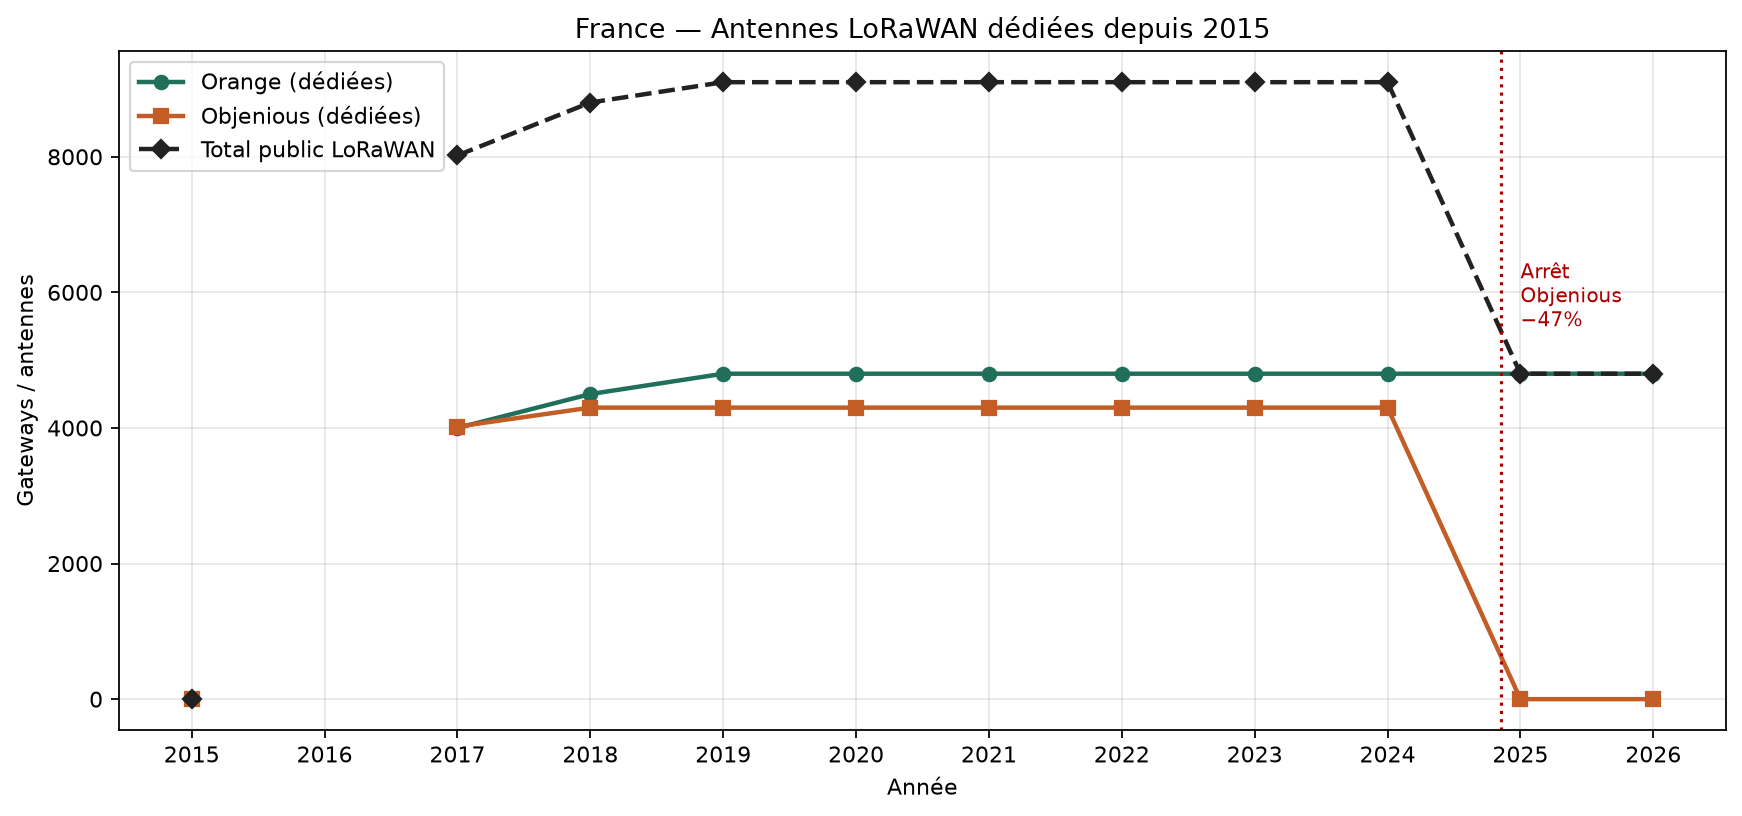
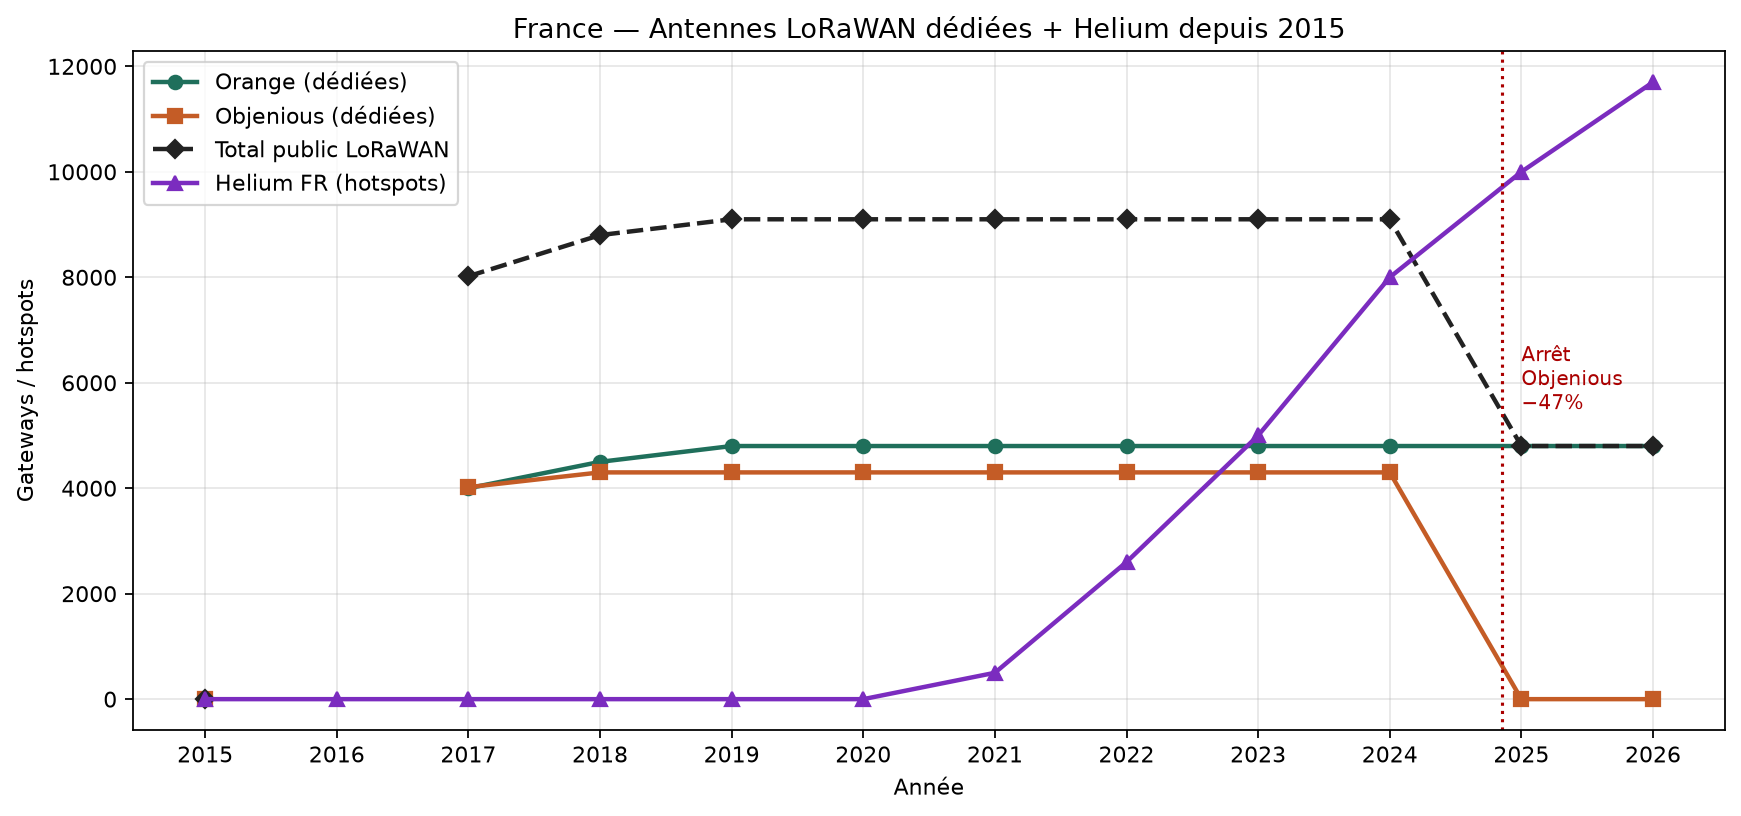
Intègre la croissance Helium dans l'analyse antennes depuis 2015
Ajoute séries FR/monde, graphiques dédiés, tendances post-Solana
et colonnes Helium dans le tableau comparatif LoRaWAN / NB-IoT.

diff --git a/src/analysis/antennas_since_2015.py b/src/analysis/antennas_since_2015.py
@@ -31,22 +31,75 @@ def plot_lora_antennas(data: dict[str, Any], out: Path) -> Path:
     orange = [r.get("orange") for r in series]
     obj = [r.get("objenious") for r in series]
     total = [r.get("total_public") for r in series]
+    he = {r["year"]: r.get("hotspots") for r in data.get("helium_hotspots", {}).get("france", {}).get("series", [])}
+    helium = [he.get(y) for y in years]
 
     fig, ax = plt.subplots(figsize=(11, 5.2))
     ax.plot(years, orange, "o-", color="#1f6f5b", lw=2, label="Orange (dédiées)")
     ax.plot(years, obj, "s-", color="#c45c26", lw=2, label="Objenious (dédiées)")
     ax.plot(years, total, "D--", color="#222", lw=2, label="Total public LoRaWAN")
+    ax.plot(years, helium, "^-", color="#7b2cbf", lw=2, label="Helium FR (hotspots)")
     ax.axvline(2024.85, color="#a00", ls=":", lw=1.4)
     ax.text(2025.0, 5500, "Arrêt\nObjenious\n−47%", color="#a00", fontsize=9)
-    ax.set_title("France — Antennes LoRaWAN dédiées depuis 2015")
+    ax.set_title("France — Antennes LoRaWAN dédiées + Helium depuis 2015")
     ax.set_xlabel("Année")
-    ax.set_ylabel("Gateways / antennes")
+    ax.set_ylabel("Gateways / hotspots")
     ax.set_xticks(years)
     ax.grid(True, alpha=0.3)
     ax.legend(loc="upper left")
     path = out / "antennes_lora_depuis_2015.png"
     _save(fig, path)
     return path
+
+
+def plot_helium_growth(data: dict[str, Any], out: Path) -> tuple[Path, Path]:
+    fr = data["helium_hotspots"]["france"]["series"]
+    wo = data["helium_hotspots"]["world"]["series"]
+
+    # France
+    fig1, ax1 = plt.subplots(figsize=(11, 5.0))
+    yf = [r["year"] for r in fr]
+    vf = [r.get("hotspots") or 0 for r in fr]
+    ax1.plot(yf, vf, "o-", color="#7b2cbf", lw=2.5, markersize=7)
+    ax1.fill_between(yf, vf, color="#7b2cbf", alpha=0.15)
+    ax1.axvline(2022, color="#333", ls=":", lw=1)
+    ax1.text(2022.1, max(vf) * 0.35, "JDN :\n~2 600 FR", fontsize=8)
+    ax1.set_title("France — Croissance Helium IoT (hotspots géolocalisés / estimés)")
+    ax1.set_xlabel("Année")
+    ax1.set_ylabel("Hotspots Helium FR")
+    ax1.set_xticks(yf)
+    ax1.grid(True, alpha=0.3)
+    path_fr = out / "helium_croissance_france.png"
+    _save(fig1, path_fr)
+
+    # World onboarded vs active
+    fig2, ax2 = plt.subplots(figsize=(11, 5.0))
+    yw = [r["year"] for r in wo]
+    onboarded = [r.get("onboarded") or 0 for r in wo]
+    active = [r.get("active_approx") for r in wo]
+    ax2.plot(yw, onboarded, "o-", color="#7b2cbf", lw=2.5, label="Onboarded (stock)")
+    ax2.plot(
+        [y for y, a in zip(yw, active) if a is not None],
+        [a for a in active if a is not None],
+        "s--",
+        color="#e67e22",
+        lw=2.5,
+        label="Actifs (approx.)",
+    )
+    ax2.set_yscale("log")
+    ax2.axvline(2021.5, color="#333", ls=":", lw=1)
+    ax2.text(2019.2, 200000, "Boom\n2021–2022", fontsize=8)
+    ax2.axvline(2023.3, color="#a00", ls=":", lw=1)
+    ax2.text(2023.4, 80000, "Solana\nmigration\n→ actifs ↓", fontsize=8, color="#a00")
+    ax2.set_title("Monde — Croissance Helium IoT (onboarded vs actifs)")
+    ax2.set_xlabel("Année")
+    ax2.set_ylabel("Hotspots (échelle log)")
+    ax2.set_xticks(yw)
+    ax2.grid(True, alpha=0.3, which="both")
+    ax2.legend(loc="upper left")
+    path_wo = out / "helium_croissance_monde.png"
+    _save(fig2, path_wo)
+    return path_fr, path_wo
 
 
 def plot_nbiot_capacity(data: dict[str, Any], out: Path) -> Path:
@@ -91,6 +144,7 @@ def plot_nbiot_capacity(data: dict[str, Any], out: Path) -> Path:
 
 def plot_dual_comparison(data: dict[str, Any], out: Path) -> Path:
     lora = {r["year"]: r.get("total_public") for r in data["lora_antennas_france"]["series"]}
+    he = {r["year"]: r.get("hotspots") for r in data["helium_hotspots"]["france"]["series"]}
     nbiot = {}
     for r in data["nbiot_radio_sites_france"]["series"]:
         y = r["year"]
@@ -98,35 +152,23 @@ def plot_dual_comparison(data: dict[str, Any], out: Path) -> Path:
         if nbiot[y] is None:
             nbiot[y] = r.get("active_nbiot_capacity") or 0
 
-    years = sorted(set(lora) | set(nbiot))
+    years = sorted(set(lora) | set(nbiot) | set(he))
     l_vals = [lora.get(y) for y in years]
+    h_vals = [he.get(y) or 0 for y in years]
     n_vals = [nbiot.get(y) or 0 for y in years]
 
     fig, ax1 = plt.subplots(figsize=(11, 5.4))
     ax2 = ax1.twinx()
-    (l1,) = ax1.plot(years, l_vals, "o-", color="#1f6f5b", lw=2.5, label="LoRaWAN antennes dédiées (axe G)")
+    (l1,) = ax1.plot(years, l_vals, "o-", color="#1f6f5b", lw=2.5, label="LoRaWAN public dédié (axe G)")
+    (l3,) = ax1.plot(years, h_vals, "^-", color="#7b2cbf", lw=2.5, label="Helium FR (axe G)")
     (l2,) = ax2.plot(years, n_vals, "s-", color="#0b3d91", lw=2.5, label="NB-IoT proxy sites 4G (axe D)")
-    ax1.set_ylabel("Antennes LoRaWAN dédiées", color="#1f6f5b")
+    ax1.set_ylabel("Antennes LoRaWAN / hotspots Helium", color="#1f6f5b")
     ax2.set_ylabel("Sites 4G proxy NB-IoT", color="#0b3d91")
     ax1.set_xlabel("Année")
-    ax1.set_title("France 2015–2026 — Antennes LoRaWAN vs capacité NB-IoT (échelles distinctes)")
+    ax1.set_title("France 2015–2026 — LoRaWAN public + Helium vs capacité NB-IoT")
     ax1.set_xticks(years)
     ax1.grid(True, alpha=0.25)
-    ax1.legend(handles=[l1, l2], loc="upper left")
-    ax1.annotate(
-        "LoRa en avance\npuis plateau / chute",
-        xy=(2019, 9100),
-        xytext=(2016.2, 7000),
-        fontsize=8,
-        arrowprops=dict(arrowstyle="->", color="#1f6f5b"),
-    )
-    ax2.annotate(
-        "NB-IoT démarre\npuis densifie",
-        xy=(2022, 78000),
-        xytext=(2020.2, 35000),
-        fontsize=8,
-        arrowprops=dict(arrowstyle="->", color="#0b3d91"),
-    )
+    ax1.legend(handles=[l1, l3, l2], loc="upper left")
     path = out / "comparaison_antennes_lora_vs_nbiot_2015.png"
     _save(fig, path)
     return path
@@ -134,7 +176,7 @@ def plot_dual_comparison(data: dict[str, Any], out: Path) -> Path:
 
 def plot_phases(out: Path) -> Path:
     """Schéma des phases de déploiement."""
-    fig, ax = plt.subplots(figsize=(11, 3.8))
+    fig, ax = plt.subplots(figsize=(11, 4.6))
     phases = [
         (2015, 2016.8, "LoRa\nlancement", "#1f6f5b"),
         (2016.8, 2019.2, "LoRa\ncroissance", "#2a9d7a"),
@@ -142,8 +184,17 @@ def plot_phases(out: Path) -> Path:
         (2024.7, 2026.5, "LoRa\nchute −47%", "#a04040"),
     ]
     for x0, x1, label, color in phases:
-        ax.barh(1, x1 - x0, left=x0, height=0.55, color=color, alpha=0.9)
-        ax.text((x0 + x1) / 2, 1, label, ha="center", va="center", color="white", fontsize=8, fontweight="bold")
+        ax.barh(2, x1 - x0, left=x0, height=0.5, color=color, alpha=0.9)
+        ax.text((x0 + x1) / 2, 2, label, ha="center", va="center", color="white", fontsize=7.5, fontweight="bold")
+
+    phases_he = [
+        (2015, 2020.5, "Helium\nabsent FR", "#b8a0d0"),
+        (2020.5, 2022.8, "Helium\nboom FR", "#7b2cbf"),
+        (2022.8, 2026.5, "Helium\nstock ↑ / actifs fragiles", "#5a189a"),
+    ]
+    for x0, x1, label, color in phases_he:
+        ax.barh(1, x1 - x0, left=x0, height=0.5, color=color, alpha=0.9)
+        ax.text((x0 + x1) / 2, 1, label, ha="center", va="center", color="white", fontsize=7.5, fontweight="bold")
 
     phases_nb = [
         (2015, 2019, "NB-IoT\n0 commercial FR", "#8899aa"),
@@ -151,14 +202,14 @@ def plot_phases(out: Path) -> Path:
         (2022, 2026.5, "NB-IoT\nnational + densif. ↑", "#0b3d91"),
     ]
     for x0, x1, label, color in phases_nb:
-        ax.barh(0, x1 - x0, left=x0, height=0.55, color=color, alpha=0.9)
-        ax.text((x0 + x1) / 2, 0, label, ha="center", va="center", color="white", fontsize=8, fontweight="bold")
+        ax.barh(0, x1 - x0, left=x0, height=0.5, color=color, alpha=0.9)
+        ax.text((x0 + x1) / 2, 0, label, ha="center", va="center", color="white", fontsize=7.5, fontweight="bold")
 
-    ax.set_yticks([0, 1])
-    ax.set_yticklabels(["NB-IoT\n(proxy 4G)", "LoRaWAN\n(antennes dédiées)"])
+    ax.set_yticks([0, 1, 2])
+    ax.set_yticklabels(["NB-IoT\n(proxy 4G)", "Helium\n(hotspots)", "LoRaWAN\n(antennes dédiées)"])
     ax.set_xlim(2014.8, 2026.7)
     ax.set_xlabel("Année")
-    ax.set_title("Phases de déploiement antennes / capacité radio — France 2015–2026")
+    ax.set_title("Phases de déploiement — LoRaWAN / Helium / NB-IoT — France 2015–2026")
     ax.axvline(2019, color="#333", ls=":", lw=0.8)
     ax.axvline(2022, color="#333", ls=":", lw=0.8)
     ax.axvline(2024.9, color="#a00", ls=":", lw=0.8)
@@ -170,9 +221,11 @@ def plot_phases(out: Path) -> Path:
 def build_table(data: dict[str, Any]) -> list[dict[str, Any]]:
     lora = {r["year"]: r for r in data["lora_antennas_france"]["series"]}
     nbiot = {r["year"]: r for r in data["nbiot_radio_sites_france"]["series"]}
+    helium = {r["year"]: r for r in data["helium_hotspots"]["france"]["series"]}
+    he_world = {r["year"]: r for r in data["helium_hotspots"]["world"]["series"]}
     rows = []
     for y in range(2015, 2027):
-        lr, nr = lora.get(y, {}), nbiot.get(y, {})
+        lr, nr, hr, hw = lora.get(y, {}), nbiot.get(y, {}), helium.get(y, {}), he_world.get(y, {})
         nb_cap = nr.get("active_nbiot_capacity_with_orange")
         if nb_cap is None:
             nb_cap = nr.get("active_nbiot_capacity")
@@ -182,6 +235,9 @@ def build_table(data: dict[str, Any]) -> list[dict[str, Any]]:
                 "lora_orange": lr.get("orange"),
                 "lora_objenious": lr.get("objenious"),
                 "lora_total_public": lr.get("total_public"),
+                "helium_fr": hr.get("hotspots"),
+                "helium_world_onboarded": hw.get("onboarded"),
+                "helium_world_active": hw.get("active_approx"),
                 "nbiot_proxy_sites": nb_cap,
                 "nbiot_sfr": nr.get("sfr"),
                 "nbiot_bouygues": nr.get("bouygues"),
@@ -197,9 +253,12 @@ def run(root: Path) -> dict[str, Any]:
     art_dir = Path("/opt/cursor/artifacts/figures")
     art_dir.mkdir(parents=True, exist_ok=True)
 
+    he_fr, he_wo = plot_helium_growth(data, fig_dir)
     figs = [
         plot_phases(fig_dir),
         plot_lora_antennas(data, fig_dir),
+        he_fr,
+        he_wo,
         plot_nbiot_capacity(data, fig_dir),
         plot_dual_comparison(data, fig_dir),
     ]
@@ -219,16 +278,15 @@ def run(root: Path) -> dict[str, Any]:
         json.dumps(out, indent=2, ensure_ascii=False), encoding="utf-8"
     )
 
-    # Markdown summary
     lines = [
-        "# Antennes LoRaWAN vs capacité NB-IoT — France depuis 2015",
+        "# Antennes LoRaWAN / Helium vs capacité NB-IoT — France depuis 2015",
         "",
         data["meta"]["method_note"].strip(),
         "",
         "## Tableau annuel",
         "",
-        "| Année | Orange LoRa | Objenious LoRa | Total LoRa public | Proxy NB-IoT (sites 4G) |",
-        "|---:|---:|---:|---:|---:|",
+        "| Année | Orange LoRa | Objenious | Total LoRa public | Helium FR | Helium monde onboarded | Proxy NB-IoT |",
+        "|---:|---:|---:|---:|---:|---:|---:|",
     ]
     for r in table:
         def fmt(v):
@@ -236,16 +294,22 @@ def run(root: Path) -> dict[str, Any]:
 
         lines.append(
             f"| {r['year']} | {fmt(r['lora_orange'])} | {fmt(r['lora_objenious'])} | "
-            f"{fmt(r['lora_total_public'])} | {fmt(r['nbiot_proxy_sites'])} |"
+            f"{fmt(r['lora_total_public'])} | {fmt(r['helium_fr'])} | "
+            f"{fmt(r['helium_world_onboarded'])} | {fmt(r['nbiot_proxy_sites'])} |"
         )
+    he_tr = data["trends_summary"]["helium"]
     lines += [
         "",
         "## Tendances",
         "",
-        "### LoRaWAN (antennes dédiées)",
+        "### LoRaWAN opéré (antennes dédiées)",
         f"- 2015–2019 : {data['trends_summary']['lora']['phase_2015_2019']}",
         f"- 2019–2024 : {data['trends_summary']['lora']['phase_2019_2024']}",
         f"- 2025–2026 : {data['trends_summary']['lora']['phase_2025_2026']}",
+        "",
+        "### Helium (LoRaWAN communautaire / DePIN)",
+        f"- 2019–2022 : {he_tr['phase_2019_2022']}",
+        f"- 2023–2026 : {he_tr['phase_2023_2026']}",
         "",
         "### NB-IoT (proxy sites 4G)",
         f"- 2015–2018 : {data['trends_summary']['nbiot']['phase_2015_2018']}",

diff --git a/reports/analyse_antennes_depuis_2015.md b/reports/analyse_antennes_depuis_2015.md
@@ -1,4 +1,4 @@
-# Antennes LoRaWAN vs capacité NB-IoT — France depuis 2015
+# Antennes LoRaWAN / Helium vs capacité NB-IoT — France depuis 2015
 
 Comparer des gateways LoRaWAN à des sites 4G n'est pas un comptage homogène :
 un site 4G NB-IoT mutualise voix/data/IoT ; une antenne LoRa est dédiée LPWAN.
@@ -6,27 +6,31 @@ L'analyse porte sur la DYNAMIQUE (croissance/décroissance) et les ordres de gra
 
 ## Tableau annuel
 
-| Année | Orange LoRa | Objenious LoRa | Total LoRa public | Proxy NB-IoT (sites 4G) |
-|---:|---:|---:|---:|---:|
-| 2015 | 0 | 0 | 0 | 0 |
-| 2016 | — | — | — | 0 |
-| 2017 | 4 000 | 4 020 | 8 020 | 0 |
-| 2018 | 4 500 | 4 300 | 8 800 | 0 |
-| 2019 | 4 800 | 4 300 | 9 100 | 17 700 |
-| 2020 | 4 800 | 4 300 | 9 100 | 20 000 |
-| 2021 | 4 800 | 4 300 | 9 100 | 27 000 |
-| 2022 | 4 800 | 4 300 | 9 100 | 78 193 |
-| 2023 | 4 800 | 4 300 | 9 100 | 78 997 |
-| 2024 | 4 800 | 4 300 | 9 100 | 84 521 |
-| 2025 | 4 800 | 0 | 4 800 | 89 474 |
-| 2026 | 4 800 | 0 | 4 800 | 93 516 |
+| Année | Orange LoRa | Objenious | Total LoRa public | Helium FR | Helium monde onboarded | Proxy NB-IoT |
+|---:|---:|---:|---:|---:|---:|---:|
+| 2015 | 0 | 0 | 0 | 0 | — | 0 |
+| 2016 | — | — | — | 0 | — | 0 |
+| 2017 | 4 000 | 4 020 | 8 020 | 0 | — | 0 |
+| 2018 | 4 500 | 4 300 | 8 800 | 0 | — | 0 |
+| 2019 | 4 800 | 4 300 | 9 100 | 0 | 1 000 | 17 700 |
+| 2020 | 4 800 | 4 300 | 9 100 | 0 | 10 000 | 20 000 |
+| 2021 | 4 800 | 4 300 | 9 100 | 500 | 250 000 | 27 000 |
+| 2022 | 4 800 | 4 300 | 9 100 | 2 600 | 975 000 | 78 193 |
+| 2023 | 4 800 | 4 300 | 9 100 | 5 000 | 1 000 000 | 78 997 |
+| 2024 | 4 800 | 4 300 | 9 100 | 8 000 | 1 030 000 | 84 521 |
+| 2025 | 4 800 | 0 | 4 800 | 10 000 | 1 035 000 | 89 474 |
+| 2026 | 4 800 | 0 | 4 800 | 11 700 | 1 035 532 | 93 516 |
 
 ## Tendances
 
-### LoRaWAN (antennes dédiées)
+### LoRaWAN opéré (antennes dédiées)
 - 2015–2019 : CROISSANCE forte (0 → ~9100 antennes publiques)
 - 2019–2024 : PLATEAU duopole Orange+Objenious (~9100)
 - 2025–2026 : DÉCROISSANCE brutale (-47%) après arrêt Objenious → ~4800
+
+### Helium (LoRaWAN communautaire / DePIN)
+- 2019–2022 : CROISSANCE explosive mondiale (milliers → ~975k onboarded) ; FR ~0 → ~2600 en 2022
+- 2023–2026 : Monde : stock onboarded élevé mais ACTIFS en baisse post-Solana (~33–43k) ; FR estim. ~12k géolocalisés (souvent inactifs)
 
 ### NB-IoT (proxy sites 4G)
 - 2015–2018 : NÉANT commercial FR (0 site NB-IoT actif)
@@ -38,6 +42,10 @@ L'analyse porte sur la DYNAMIQUE (croissance/décroissance) et les ordres de gra
 ![phases_deploiement_antennes_2015.png](figures/phases_deploiement_antennes_2015.png)
 
 ![antennes_lora_depuis_2015.png](figures/antennes_lora_depuis_2015.png)
+
+![helium_croissance_france.png](figures/helium_croissance_france.png)
+
+![helium_croissance_monde.png](figures/helium_croissance_monde.png)
 
 ![antennes_nbiot_proxy_depuis_2015.png](figures/antennes_nbiot_proxy_depuis_2015.png)
 
